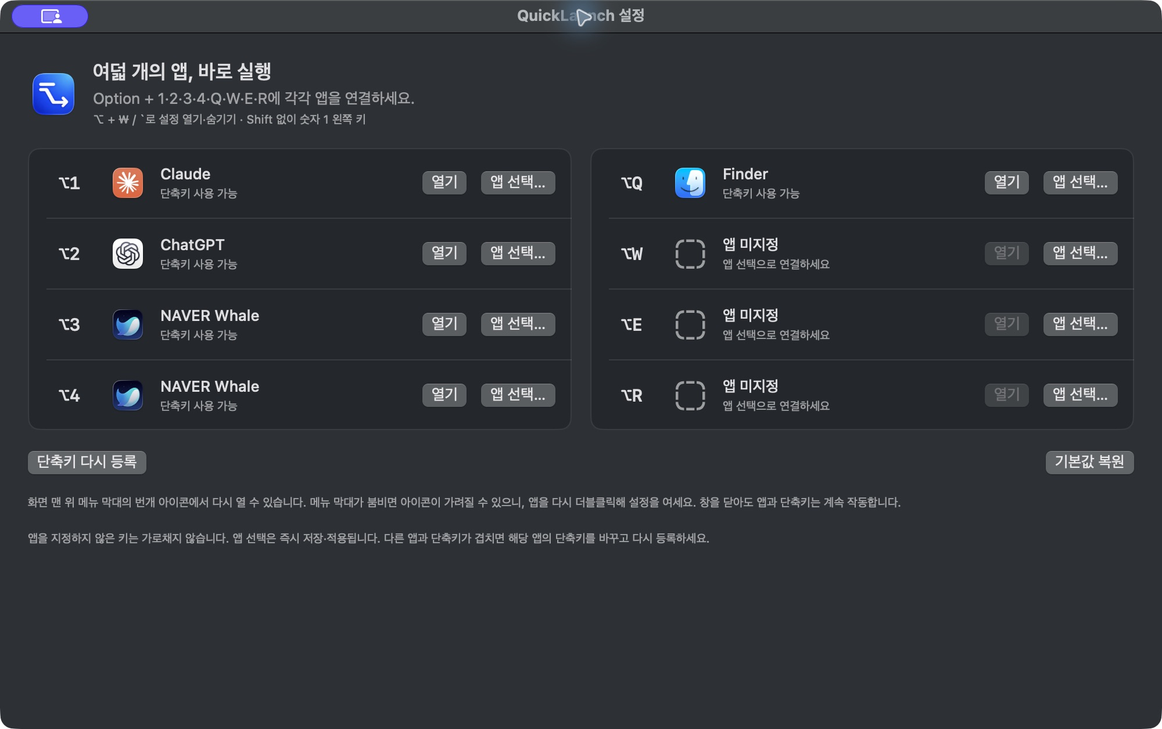
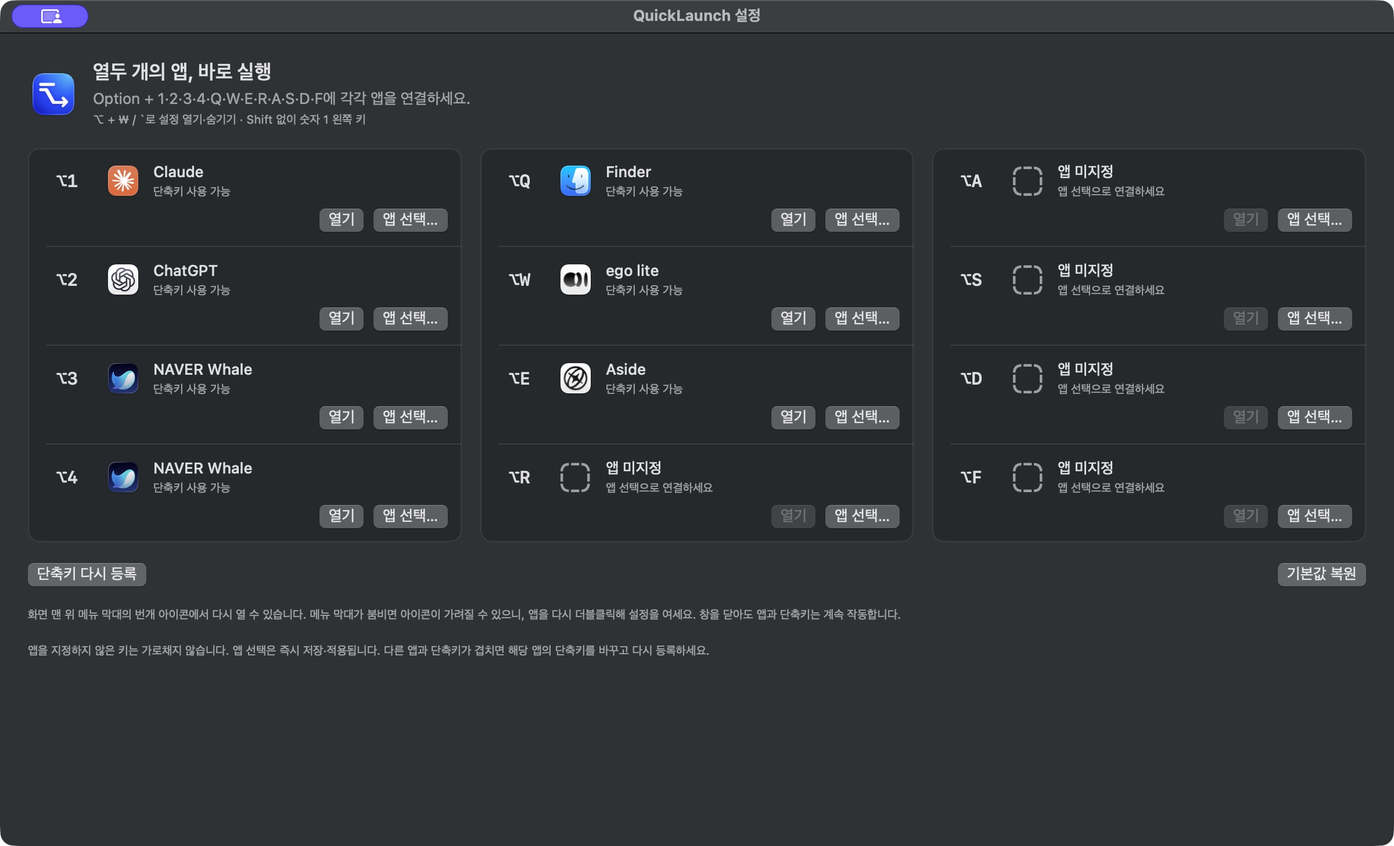
Add ASDF shortcuts and expand launcher to twelve apps

diff --git a/Sources/QuickLaunch/QuickLaunchApp.swift b/Sources/QuickLaunch/QuickLaunchApp.swift
@@ -33,7 +33,7 @@ final class AppDelegate: NSObject, NSApplicationDelegate {
     func showSettings() {
         if settingsWindow == nil {
             let window = NSWindow(
-                contentRect: NSRect(x: 0, y: 0, width: 1000, height: 600),
+                contentRect: NSRect(x: 0, y: 0, width: 1200, height: 700),
                 styleMask: [.titled, .closable, .miniaturizable], backing: .buffered, defer: false
             )
             window.title = "QuickLaunch 설정"
@@ -104,9 +104,9 @@ private struct SettingsView: View {
                     .resizable().frame(width: 44, height: 44)
                     .accessibilityHidden(true)
                 VStack(alignment: .leading, spacing: 4) {
-                    Text("여덟 개의 앱, 바로 실행")
+                    Text("열두 개의 앱, 바로 실행")
                         .font(.title2.weight(.semibold))
-                    Text("Option + 1·2·3·4·Q·W·E·R에 각각 앱을 연결하세요.")
+                    Text("Option + 1·2·3·4·Q·W·E·R·A·S·D·F에 각각 앱을 연결하세요.")
                         .foregroundStyle(.secondary)
                     Text("⌥ + ₩ / `로 설정 열기·숨기기 · Shift 없이 숫자 1 왼쪽 키")
                         .font(.caption).foregroundStyle(.secondary)
@@ -114,7 +114,8 @@ private struct SettingsView: View {
             }
             HStack(alignment: .top, spacing: 16) {
                 appColumn(Array(store.slots.prefix(4)))
-                appColumn(Array(store.slots.suffix(4)))
+                appColumn(Array(store.slots.dropFirst(4).prefix(4)))
+                appColumn(Array(store.slots.dropFirst(8).prefix(4)))
             }
 
             if let notice = store.notice {
@@ -136,7 +137,7 @@ private struct SettingsView: View {
         }
         .padding(24)
         }
-        .frame(width: 1000, height: 600)
+        .frame(width: 1200, height: 700)
     }
 
     private func appColumn(_ slots: [SlotConfiguration]) -> some View {
@@ -153,40 +154,43 @@ private struct SettingsView: View {
 
     private func appRow(_ slot: SlotConfiguration) -> some View {
         let url = store.applicationURL(for: slot)
-        return HStack(spacing: 12) {
-            Text(slot.shortcut)
-                .font(.system(.title3, design: .monospaced).weight(.semibold))
-                .frame(width: 44)
-                .accessibilityLabel(slot.shortcutKey.accessibilityLabel)
-            if let url {
-                Image(nsImage: NSWorkspace.shared.icon(forFile: url.path))
-                    .resizable().frame(width: 32, height: 32)
-            } else {
-                Image(systemName: "app.dashed").font(.system(size: 28))
-                    .foregroundStyle(.secondary).frame(width: 32, height: 32)
-            }
-            VStack(alignment: .leading, spacing: 3) {
-                Text(slot.displayName).font(.body.weight(.medium)).lineLimit(1)
-                if let message = store.registrationErrorMessage(for: slot.id) {
-                    Text(message)
-                        .font(.caption).foregroundStyle(.red)
-                } else if !slot.isAssigned {
-                    Text("앱 선택으로 연결하세요")
-                        .font(.caption).foregroundStyle(.secondary)
-                } else if url == nil {
-                    Text("앱을 찾을 수 없습니다")
-                        .font(.caption).foregroundStyle(.orange)
+        return VStack(spacing: 8) {
+            HStack(spacing: 10) {
+                Text(slot.shortcut)
+                    .font(.system(.title3, design: .monospaced).weight(.semibold))
+                    .frame(width: 44)
+                    .accessibilityLabel(slot.shortcutKey.accessibilityLabel)
+                if let url {
+                    Image(nsImage: NSWorkspace.shared.icon(forFile: url.path))
+                        .resizable().frame(width: 32, height: 32)
                 } else {
-                    Text("단축키 사용 가능").font(.caption).foregroundStyle(.secondary)
+                    Image(systemName: "app.dashed").font(.system(size: 28))
+                        .foregroundStyle(.secondary).frame(width: 32, height: 32)
                 }
+                VStack(alignment: .leading, spacing: 3) {
+                    Text(slot.displayName).font(.body.weight(.medium)).lineLimit(1)
+                        .help(slot.displayName)
+                    if let message = store.registrationErrorMessage(for: slot.id) {
+                        Text(message).font(.caption).foregroundStyle(.red)
+                    } else if !slot.isAssigned {
+                        Text("앱 선택으로 연결하세요").font(.caption).foregroundStyle(.secondary)
+                    } else if url == nil {
+                        Text("앱을 찾을 수 없습니다").font(.caption).foregroundStyle(.orange)
+                    } else {
+                        Text("단축키 사용 가능").font(.caption).foregroundStyle(.secondary)
+                    }
+                }
+                .frame(maxWidth: .infinity, alignment: .leading)
             }
-            .frame(maxWidth: .infinity, alignment: .leading)
-            Button("열기") { store.launch(slot.id) }
-                .disabled(url == nil || store.launching.contains(slot.id))
-                .accessibilityLabel("\(slot.displayName) 열기")
-            Button("앱 선택…") { chooseApp(slot.id) }
-                .accessibilityLabel("\(slot.shortcutKey.accessibilityLabel) 앱 선택")
+            HStack {
+                Spacer()
+                Button("열기") { store.launch(slot.id) }
+                    .disabled(url == nil || store.launching.contains(slot.id))
+                    .accessibilityLabel("\(slot.displayName) 열기")
+                Button("앱 선택…") { chooseApp(slot.id) }
+                    .accessibilityLabel("\(slot.shortcutKey.accessibilityLabel) 앱 선택")
+            }
         }
-        .padding(.horizontal, 14).padding(.vertical, 14)
+        .padding(12)
     }
 }

diff --git a/Tests/QuickLaunchTests/SettingsRepositoryTests.swift b/Tests/QuickLaunchTests/SettingsRepositoryTests.swift
@@ -15,20 +15,34 @@ final class SettingsRepositoryTests: XCTestCase {
 
     override func tearDown() { defaults.removePersistentDomain(forName: suite) }
 
-    func testFreshInstallHasEightFixedKeysAndFourAssignedDefaults() {
+    func testFreshInstallHasTwelveFixedKeysAndFourAssignedDefaults() {
         XCTAssertFalse(repository.hasSavedSettings)
         XCTAssertEqual(repository.load(), SlotConfiguration.defaults)
-        XCTAssertEqual(repository.load().map(\.shortcut), ["⌥1", "⌥2", "⌥3", "⌥4", "⌥Q", "⌥W", "⌥E", "⌥R"])
+        XCTAssertEqual(repository.load().map(\.shortcut), ["⌥1", "⌥2", "⌥3", "⌥4", "⌥Q", "⌥W", "⌥E", "⌥R", "⌥A", "⌥S", "⌥D", "⌥F"])
         XCTAssertEqual(repository.load().prefix(4).filter(\.isAssigned).count, 4)
-        XCTAssertTrue(repository.load().suffix(4).allSatisfy { !$0.isAssigned })
+        XCTAssertTrue(repository.load().suffix(8).allSatisfy { !$0.isAssigned })
     }
 
     func testCustomLetterApplicationAndUnassignedSlotsSurviveReload() {
         var slots = SlotConfiguration.defaults
-        slots[7] = .init(id: 7, displayName: "Custom App", bundleIdentifier: "example.custom", applicationPath: "/Volumes/External Apps/Custom App.app")
+        slots[11] = .init(id: 11, displayName: "Custom App", bundleIdentifier: "example.custom", applicationPath: "/Volumes/External Apps/Custom App.app")
         repository.save(slots)
         XCTAssertTrue(repository.hasSavedSettings)
         XCTAssertEqual(SettingsRepository(defaults: defaults).load(), slots)
+    }
+
+    func testV13EightSlotSaveKeepsEachAppAndAddsFourUnassignedSlots() {
+        let oldSlots = ShortcutKey.allCases.prefix(8).map { key in
+            SlotConfiguration(id: key.slotID, displayName: "Saved app \(key.rawValue)",
+                bundleIdentifier: "custom.\(key.rawValue)", applicationPath: "/External Apps/App \(key.rawValue).app")
+        }
+        repository.save(oldSlots)
+        let loaded = repository.load()
+        XCTAssertEqual(Array(loaded.prefix(8)), oldSlots)
+        XCTAssertEqual(loaded.suffix(4).map(\.shortcutKey), [.a, .s, .d, .f])
+        XCTAssertTrue(loaded.suffix(4).allSatisfy { !$0.isAssigned })
+        repository.save(loaded)
+        XCTAssertEqual(repository.load(), loaded)
     }
 
     func testCorruptDataFallsBackWithoutCrashing() {
@@ -47,7 +61,7 @@ final class SettingsRepositoryTests: XCTestCase {
         let loaded = repository.load()
         XCTAssertEqual(loaded.prefix(4).map(\.displayName), ["My Editor", "My Browser", "My Shell", "My Chat"])
         XCTAssertEqual(loaded[0].applicationPath, "/Volumes/Apps/My Editor.app")
-        XCTAssertTrue(loaded.suffix(4).allSatisfy { !$0.isAssigned })
+        XCTAssertTrue(loaded.suffix(8).allSatisfy { !$0.isAssigned })
     }
 
     func testSelectableFourSlotSaveMigratesByShortcutInsteadOfOldID() {
@@ -59,8 +73,8 @@ final class SettingsRepositoryTests: XCTestCase {
         ]
         repository.save(saved)
         let loaded = repository.load()
-        XCTAssertEqual(loaded.count, 8)
-        XCTAssertEqual(loaded.map(\.id), Array(0..<8))
+        XCTAssertEqual(loaded.count, 12)
+        XCTAssertEqual(loaded.map(\.id), Array(0..<12))
         XCTAssertEqual(loaded.map(\.shortcutKey), ShortcutKey.allCases)
         XCTAssertEqual(loaded[7].displayName, "Editor")
         XCTAssertEqual(loaded[4].applicationPath, "/Apps/Browser.app")
@@ -89,21 +103,21 @@ final class SettingsRepositoryTests: XCTestCase {
         ]
         repository.save(saved)
         let loaded = repository.load()
-        XCTAssertEqual(loaded.count, 8)
-        XCTAssertEqual(Set(loaded.map(\.shortcutKey)).count, 8)
+        XCTAssertEqual(loaded.count, 12)
+        XCTAssertEqual(Set(loaded.map(\.shortcutKey)).count, 12)
         XCTAssertEqual(loaded[4].bundleIdentifier, "first.app")
         XCTAssertEqual(loaded.filter(\.isAssigned).count, 1)
     }
 
-    func testEightCarbonEventsRouteToCorrectFixedSlot() {
-        XCTAssertEqual(ShortcutKey.allCases.map(\.keyCode), [18, 19, 20, 21, 12, 13, 14, 15])
-        XCTAssertEqual(ShortcutKey.allCases.map(\.eventID), Array(1...8).map(UInt32.init))
+    func testTwelveCarbonEventsRouteToCorrectFixedSlot() {
+        XCTAssertEqual(ShortcutKey.allCases.map(\.keyCode), [18, 19, 20, 21, 12, 13, 14, 15, 0, 1, 2, 3])
+        XCTAssertEqual(ShortcutKey.allCases.map(\.eventID), Array(1...12).map(UInt32.init))
         for key in ShortcutKey.allCases {
             XCTAssertEqual(ShortcutKey.slotID(forEventID: key.eventID), key.slotID)
             XCTAssertEqual(SlotConfiguration.defaults[key.slotID].shortcutKey, key)
         }
         XCTAssertNil(ShortcutKey.slotID(forEventID: 0))
-        XCTAssertNil(ShortcutKey.slotID(forEventID: 9))
+        XCTAssertNil(ShortcutKey.slotID(forEventID: 13))
         XCTAssertNil(ShortcutKey.slotID(forEventID: UInt32.max))
     }
 

diff --git a/Tests/QuickLaunchTests/HotKeyBindingTests.swift b/Tests/QuickLaunchTests/HotKeyBindingTests.swift
@@ -14,18 +14,18 @@ final class HotKeyBindingTests: XCTestCase {
         XCTAssertEqual(bindings[0].modifiers & UInt32(shiftKey), 0)
     }
 
-    func testSettingsEventDoesNotOverlapEightApplicationEvents() {
+    func testSettingsEventDoesNotOverlapTwelveApplicationEvents() {
         let slots = ShortcutKey.allCases.map {
             SlotConfiguration(id: $0.slotID, displayName: "App \($0.rawValue)", bundleIdentifier: "example.\($0.rawValue)")
         }
         let bindings = HotKeyBinding.plan(for: slots)
-        XCTAssertEqual(bindings.count, 9)
-        XCTAssertEqual(Set(bindings.map(\.eventID)).count, 9)
+        XCTAssertEqual(bindings.count, 13)
+        XCTAssertEqual(Set(bindings.map(\.eventID)).count, 13)
         for key in ShortcutKey.allCases {
             XCTAssertEqual(HotKeyAction.from(eventID: key.eventID), .application(slotID: key.slotID))
         }
         XCTAssertEqual(HotKeyAction.from(eventID: 100), .toggleSettings)
-        for invalidID: UInt32 in [0, 9, 99, UInt32.max] {
+        for invalidID: UInt32 in [0, 13, 99, UInt32.max] {
             XCTAssertNil(HotKeyAction.from(eventID: invalidID))
         }
     }

diff --git a/Sources/QuickLaunch/SettingsRepository.swift b/Sources/QuickLaunch/SettingsRepository.swift
@@ -19,7 +19,8 @@ struct SlotConfiguration: Codable, Equatable, Identifiable {
         .init(id: 1, displayName: "Google Chrome", bundleIdentifier: "com.google.Chrome"),
         .init(id: 2, displayName: "Terminal", bundleIdentifier: "com.apple.Terminal"),
         .init(id: 3, displayName: "Slack", bundleIdentifier: "com.tinyspeck.slackmacgap"),
-        .unassigned(for: .q), .unassigned(for: .w), .unassigned(for: .e), .unassigned(for: .r)
+        .unassigned(for: .q), .unassigned(for: .w), .unassigned(for: .e), .unassigned(for: .r),
+        .unassigned(for: .a), .unassigned(for: .s), .unassigned(for: .d), .unassigned(for: .f)
     ]
 
     static func unassigned(for key: ShortcutKey) -> SlotConfiguration {
@@ -49,7 +50,7 @@ struct SlotConfiguration: Codable, Equatable, Identifiable {
     }
 }
 
-/// Migrates old four-slot assignments by their selected key, then fixes all eight IDs.
+/// Migrates saved assignments by their selected key, then normalizes all fixed IDs.
 struct SettingsRepository {
     static let key = "applicationSlots.v1"
     let defaults: UserDefaults

diff --git a/Sources/QuickLaunch/ShortcutKey.swift b/Sources/QuickLaunch/ShortcutKey.swift
@@ -3,6 +3,7 @@ import Carbon
 enum ShortcutKey: String, Codable, CaseIterable {
     case one = "1", two = "2", three = "3", four = "4"
     case q, w, e, r
+    case a, s, d, f
 
     var label: String { "⌥\(rawValue.uppercased())" }
     var accessibilityLabel: String { "Option \(rawValue.uppercased())" }
@@ -17,6 +18,10 @@ enum ShortcutKey: String, Codable, CaseIterable {
         case .w: return UInt32(kVK_ANSI_W)
         case .e: return UInt32(kVK_ANSI_E)
         case .r: return UInt32(kVK_ANSI_R)
+        case .a: return UInt32(kVK_ANSI_A)
+        case .s: return UInt32(kVK_ANSI_S)
+        case .d: return UInt32(kVK_ANSI_D)
+        case .f: return UInt32(kVK_ANSI_F)
         }
     }
 

diff --git a/Sources/QuickLaunch/HotKeyBinding.swift b/Sources/QuickLaunch/HotKeyBinding.swift
@@ -1,6 +1,6 @@
 import Carbon
 
-/// Event IDs are independent of key codes; ID 100 never overlaps app slots 1…8.
+/// Event IDs are independent of key codes; ID 100 never overlaps app slots 1…12.
 enum HotKeyAction: Equatable {
     case application(slotID: Int)
     case toggleSettings

diff --git a/docs/BUILDING.ko.md b/docs/BUILDING.ko.md
@@ -1,6 +1,6 @@
 # QuickLaunch 상세 가이드
 
-macOS 메뉴 막대에서 실행되는 작은 앱 런처입니다. 다른 앱을 사용 중이어도 **Option(⌥) + 1·2·3·4·Q·W·E·R**로 여덟 앱에 바로 접근합니다. 각 단축키는 고정되어 있으며, 각 행의 **앱 선택…** 버튼으로 연결할 앱만 지정합니다. 이미 실행 중인 앱은 앞으로 가져옵니다.
+macOS 메뉴 막대에서 실행되는 작은 앱 런처입니다. 다른 앱을 사용 중이어도 **Option(⌥) + 1·2·3·4·Q·W·E·R·A·S·D·F**로 열두 앱에 바로 접근합니다. 각 단축키는 고정되어 있으며, 각 행의 **앱 선택…** 버튼으로 연결할 앱만 지정합니다. 이미 실행 중인 앱은 앞으로 가져옵니다.
 
 | 고정 단축키 | 새로 설치했을 때 기본 연결 |
 | --- | --- |
@@ -12,8 +12,12 @@ macOS 메뉴 막대에서 실행되는 작은 앱 런처입니다. 다른 앱을
 | ⌥W | 앱 미지정 |
 | ⌥E | 앱 미지정 |
 | ⌥R | 앱 미지정 |
+| ⌥A | 앱 미지정 |
+| ⌥S | 앱 미지정 |
+| ⌥D | 앱 미지정 |
+| ⌥F | 앱 미지정 |
 
-앱을 지정하지 않은 키는 등록하거나 가로채지 않습니다. Q·W·E·R에도 앱을 연결하면 해당 단축키가 즉시 작동합니다. 기본 앱이 설치되지 않았다면 설정에 안내가 표시됩니다. **앱 선택…**으로 설치된 앱을 연결하세요.
+앱을 지정하지 않은 키는 등록하거나 가로채지 않습니다. Q·W·E·R·A·S·D·F에도 앱을 연결하면 해당 단축키가 즉시 작동합니다. 기본 앱이 설치되지 않았다면 설정에 안내가 표시됩니다. **앱 선택…**으로 설치된 앱을 연결하세요.
 
 ## 창 열기 단축키 (v1.3.0)
 
@@ -24,7 +28,7 @@ macOS 메뉴 막대에서 실행되는 작은 앱 런처입니다. 다른 앱을
 이전 버전이 실행 중이면 메뉴 막대에서 **QuickLaunch 종료**를 먼저 누르고 새 `QuickLaunch.app`으로 교체한 뒤 실행하세요. 실행 중인 앱에는 업데이트가 자동 적용되지 않습니다.
 
 1. `dist/QuickLaunch.app`을 더블클릭합니다. 원하는 경우 `/Applications`로 복사해 실행하세요.
-2. 실행할 때마다 설정 창이 열립니다. 숫자 단축키 네 개는 왼쪽, 문자 단축키 네 개는 오른쪽에 표시됩니다.
+2. 실행할 때마다 설정 창이 열립니다. 숫자 1~4, Q/W/E/R, A/S/D/F를 각각 네 개씩 세 열로 표시합니다.
 3. 각 행에서 **앱 선택…**으로 `.app` 응용 프로그램을 지정합니다. `/Applications` 밖의 앱도 선택할 수 있습니다.
 4. **열기**로 연결을 확인한 다음 다른 앱에서 해당 단축키를 누릅니다. 예를 들어 ⌥Q는 Option 키를 누른 채 Q를 누릅니다.
 5. 창을 닫아도 단축키는 유지됩니다. 화면 맨 위 메뉴 막대의 번개 아이콘 → **설정…**으로 다시 엽니다. 아이콘이 다른 항목에 가려져 보이지 않으면 `QuickLaunch.app`을 다시 더블클릭해 설정을 여세요.
@@ -33,7 +37,7 @@ macOS 메뉴 막대에서 실행되는 작은 앱 런처입니다. 다른 앱을
 
 기존 버전의 앱 연결은 **기존에 사용하던 단축키를 기준으로** 이어받습니다. 예를 들어 이전에 첫 번째 앱의 단축키를 ⌥R로 바꿨다면, 업데이트 후에도 그 앱은 ⌥R 행에 연결됩니다. 새로 생기거나 비게 된 키에는 앱을 임의로 채우지 않습니다. 저장 데이터의 중복 키는 첫 번째 유효 항목을 유지합니다.
 
-Carbon `RegisterEventHotKey`를 사용하므로 키보드 감시나 손쉬운 사용 권한을 요청하지 않습니다. ANSI 숫자 행의 1~4 및 Q·W·E·R의 물리적 위치를 사용합니다. 다른 키보드 배열에서도 이 위치를 기준으로 동작하며 숫자 키패드는 별도입니다.
+Carbon `RegisterEventHotKey`를 사용하므로 키보드 감시나 손쉬운 사용 권한을 요청하지 않습니다. ANSI 숫자 행의 1~4 및 Q·W·E·R·A·S·D·F의 물리적 위치를 사용합니다. 다른 키보드 배열에서도 이 위치를 기준으로 동작하며 숫자 키패드는 별도입니다.
 
 ## 소스에서 빌드
 
@@ -61,31 +65,31 @@ QUICKLAUNCH_DISABLE_SWIFTPM_SANDBOX=1 bash scripts/build-app.sh
 - 단축키는 앱이 지정된 슬롯에만 등록합니다. 한 슬롯이 등록에 실패해도 다른 정상 슬롯은 계속 작동합니다.
 - 충돌 오류(`eventHotKeyExistsErr`)는 **다른 앱이 이 단축키를 사용 중입니다**로 표시하고 다른 오류는 코드로 표시합니다. 다른 앱 또는 시스템의 단축키를 바꾼 뒤 **단축키 다시 등록**을 누르세요.
 - 앱 파일이 이동되면 저장된 번들 ID로 다시 찾습니다. 찾지 못하면 **앱 선택…**으로 연결을 갱신하세요. 실행 실패도 안내 창으로 표시합니다.
-- **기본값 복원**은 숫자 키 네 개를 위 표의 기본 앱에 연결하고 Q·W·E·R을 미지정 상태로 되돌린 뒤 저장·재등록합니다.
+- **기본값 복원**은 숫자 키 네 개를 위 표의 기본 앱에 연결하고 Q·W·E·R·A·S·D·F을 미지정 상태로 되돌린 뒤 저장·재등록합니다.
 - 종료 시 등록한 단축키와 이벤트 핸들러를 해제합니다. 저장된 설정은 유지합니다.
 
 ## 검증
 
-자동 테스트는 여덟 슬롯의 초기 상태, 앱 경로·번들 ID 저장, 이전 네 슬롯의 이관, 단축키를 바꿨던 앱의 올바른 행 배치, 손상·중복·잘못된 저장 데이터 복구, 여덟 Carbon 이벤트의 슬롯 매핑 및 미지정 키의 제외 조건을 확인합니다.
+자동 테스트는 열두 슬롯의 초기 상태, 앱 경로·번들 ID 저장, 이전 네 슬롯의 이관, 단축키를 바꿨던 앱의 올바른 행 배치, 손상·중복·잘못된 저장 데이터 복구, 열두 Carbon 이벤트의 슬롯 매핑 및 미지정 키의 제외 조건을 확인합니다.
 
 로그인된 macOS 화면에서 다음 시나리오로 실제 동작을 확인하세요.
 
 1. 창 단축키를 눌러 열기·숨기기·다른 앱 뒤에서 앞으로 가져오기·최소화 복원·앱 선택 대화상자 유지가 동작하는지 확인합니다. 새 설정에서는 ⌥Q·⌥W·⌥E·⌥R이 미지정인지 확인합니다. 텍스트 입력 앱에서 이 키들이 QuickLaunch에 가로채이지 않는지 확인합니다.
-2. 여덟 행 모두 설치된 앱에 연결하고 다른 앱에서 여덟 단축키를 각각 누릅니다. 닫힌 앱은 실행되고 열린 앱은 앞으로 와야 합니다.
-3. 설정 창을 닫고도 단축키가 작동하는지 확인합니다. 앱을 다시 더블클릭해 설정을 열고, 종료·재실행 후 여덟 연결이 유지되는지 확인합니다.
+2. 열두 행 모두 설치된 앱에 연결하고 다른 앱에서 열두 단축키를 각각 누릅니다. 닫힌 앱은 실행되고 열린 앱은 앞으로 와야 합니다.
+3. 설정 창을 닫고도 단축키가 작동하는지 확인합니다. 앱을 다시 더블클릭해 설정을 열고, 종료·재실행 후 열두 연결이 유지되는지 확인합니다.
 4. 이전 네 슬롯에서 키를 ⌥R·⌥Q·⌥1·⌥E처럼 바꿔 사용했다면 업데이트 후 해당 키 행에 기존 앱이 그대로 연결되는지 확인합니다.
 5. `/Applications` 밖의 앱을 선택해 실행하고, 앱 이동 후 재연결 또는 번들 ID 검색을 확인합니다.
 6. 첫 번째 QuickLaunch 실행 중 터미널에서 `dist/QuickLaunch.app/Contents/MacOS/QuickLaunch`를 실행해 두 번째 프로세스를 만듭니다. 두 번째에서 충돌 표시를 확인하고 첫 번째를 종료한 뒤 **단축키 다시 등록**으로 복구되는지 확인합니다. 테스트 후 두 번째도 종료합니다.
-7. **기본값 복원** 후 숫자 키 기본 연결 및 Q·W·E·R 미지정 상태를 확인합니다.
+7. **기본값 복원** 후 숫자 키 기본 연결 및 Q·W·E·R·A·S·D·F 미지정 상태를 확인합니다.
 
 자동 테스트와 빌드만으로 실제 앱 전환이나 모든 시스템 단축키 충돌을 검증할 수는 없습니다.
 
 ## 파일 구성
 
-- `Sources/QuickLaunch/QuickLaunchApp.swift`: 메뉴 막대, 두 열의 설정 UI, 재실행 처리
+- `Sources/QuickLaunch/QuickLaunchApp.swift`: 메뉴 막대, 세 열의 설정 UI, 재실행 처리
 - `Sources/QuickLaunch/HotKeyManager.swift`: 지정된 앱의 전역 단축키 등록·해제
 - `Sources/QuickLaunch/LauncherStore.swift`: 앱 선택, 검색, 실행, 오류 상태
-- `Sources/QuickLaunch/ShortcutKey.swift`: 여덟 고정 키, Carbon 키 코드 및 이벤트 ID
+- `Sources/QuickLaunch/ShortcutKey.swift`: 열두 고정 키, Carbon 키 코드 및 이벤트 ID
 - `Sources/QuickLaunch/SettingsRepository.swift`: 기본값, 이전 연결 이관, 저장 데이터 복구
 - `Tests/QuickLaunchTests`: 설정·이관·이벤트 매핑 테스트
 - `scripts/build-app.sh`: 실행 가능한 `.app` 생성

diff --git a/README.md b/README.md
@@ -2,7 +2,7 @@
   <img src="assets/icon-1024.png" width="144" alt="QuickLaunch icon">
 </p>
 <h1 align="center">QuickLaunch</h1>
-<p align="center"><strong>자주 쓰는 앱 8개, Option 키로 바로.</strong><br>A tiny, native macOS app launcher. Eight apps. One modifier.</p>
+<p align="center"><strong>자주 쓰는 앱 12개, Option 키로 바로.</strong><br>A tiny, native macOS app launcher. Twelve apps. One modifier.</p>
 <p align="center">
   <a href="https://github.com/jaden2dev/QuickLaunch/releases/latest">다운로드</a> ·
   <a href="#사용법">사용법</a> ·
@@ -10,9 +10,9 @@
   <a href="LICENSE">MIT License</a>
 </p>
 
-![QuickLaunch — 여덟 개 고정 단축키 설정 화면](docs/images/quicklaunch-settings.png)
+![QuickLaunch — 열두 개 고정 단축키 설정 화면](docs/images/quicklaunch-settings.png)
 
-QuickLaunch는 메뉴 막대에 머무르며, **Option + 1·2·3·4·Q·W·E·R**로 지정한 앱을 실행하거나 앞으로 가져옵니다. 각 단축키의 **앱 선택…** 버튼으로 원하는 앱만 연결하세요.
+QuickLaunch는 메뉴 막대에 머무르며, **Option + 1·2·3·4·Q·W·E·R·A·S·D·F**로 지정한 앱을 실행하거나 앞으로 가져옵니다. 각 단축키의 **앱 선택…** 버튼으로 원하는 앱만 연결하세요.
 
 **Option + ₩ / `** 키로 설정 창을 열고 숨길 수 있어, 메뉴 아이콘이 MacBook 노치에 가려져도 바로 접근할 수 있습니다. 숫자 **1 왼쪽의 물결(~) 표시가 있는 키**를 사용하며 Shift는 누르지 않습니다.
 
@@ -20,7 +20,7 @@ QuickLaunch는 메뉴 막대에 머무르며, **Option + 1·2·3·4·Q·W·E·R*
 
 **[QuickLaunch 최신 버전 다운로드 →](https://github.com/jaden2dev/QuickLaunch/releases/latest)**
 
-1. 위 페이지의 **Assets**에서 `QuickLaunch-v1.3.0-macos-arm64.zip`을 받습니다.
+1. 위 페이지의 **Assets**에서 `QuickLaunch-v1.4.0-macos-arm64.zip`을 받습니다.
 2. ZIP 파일을 더블클릭해 압축을 풉니다.
 3. `QuickLaunch.app`을 **응용 프로그램(Applications)** 폴더로 옮기고 실행합니다.
 4. 설정 창에서 각 키에 연결할 앱을 선택합니다.
@@ -41,10 +41,11 @@ QuickLaunch는 메뉴 막대에 머무르며, **Option + 1·2·3·4·Q·W·E·R*
 | ⌥3 | Terminal |
 | ⌥4 | Slack |
 | ⌥Q · ⌥W · ⌥E · ⌥R | 원하는 앱을 선택해 연결 |
+| ⌥A · ⌥S · ⌥D · ⌥F | 원하는 앱을 선택해 연결 |
 
 - **앱 선택…** → `.app` 선택 → 즉시 저장·적용됩니다.
 - 이미 실행 중인 앱은 앞으로 가져오고, 닫힌 앱은 실행합니다.
-- 앱을 지정하지 않은 Q/W/E/R 키는 가로채지 않습니다.
+- 앱을 지정하지 않은 Q/W/E/R/A/S/D/F 키는 가로채지 않습니다.
 - 설정 창을 닫아도 단축키는 작동합니다. 종료는 메뉴 막대의 **QuickLaunch 종료**를 사용하세요.
 - 설정 창이 다른 앱 뒤에 있으면 창 단축키로 앞으로 가져옵니다.
 - 앱 선택 대화상자가 열린 동안에는 창 숨기기를 하지 않습니다.
